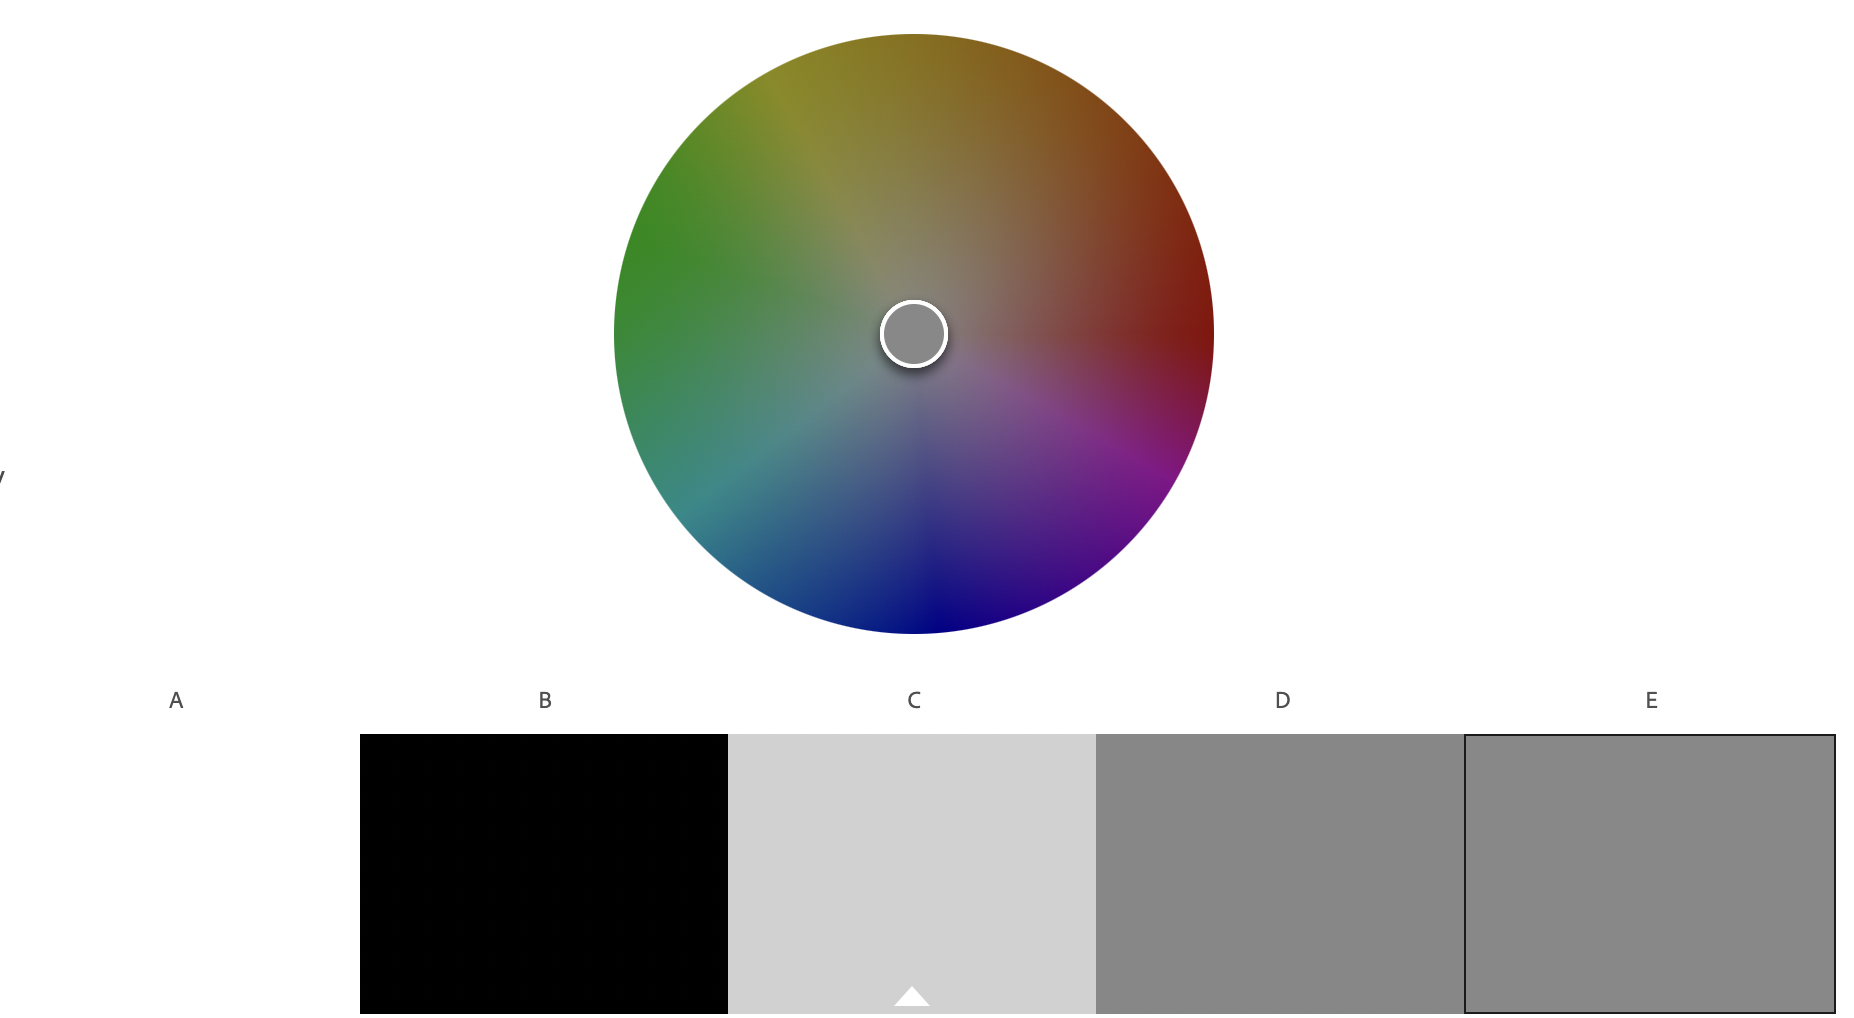
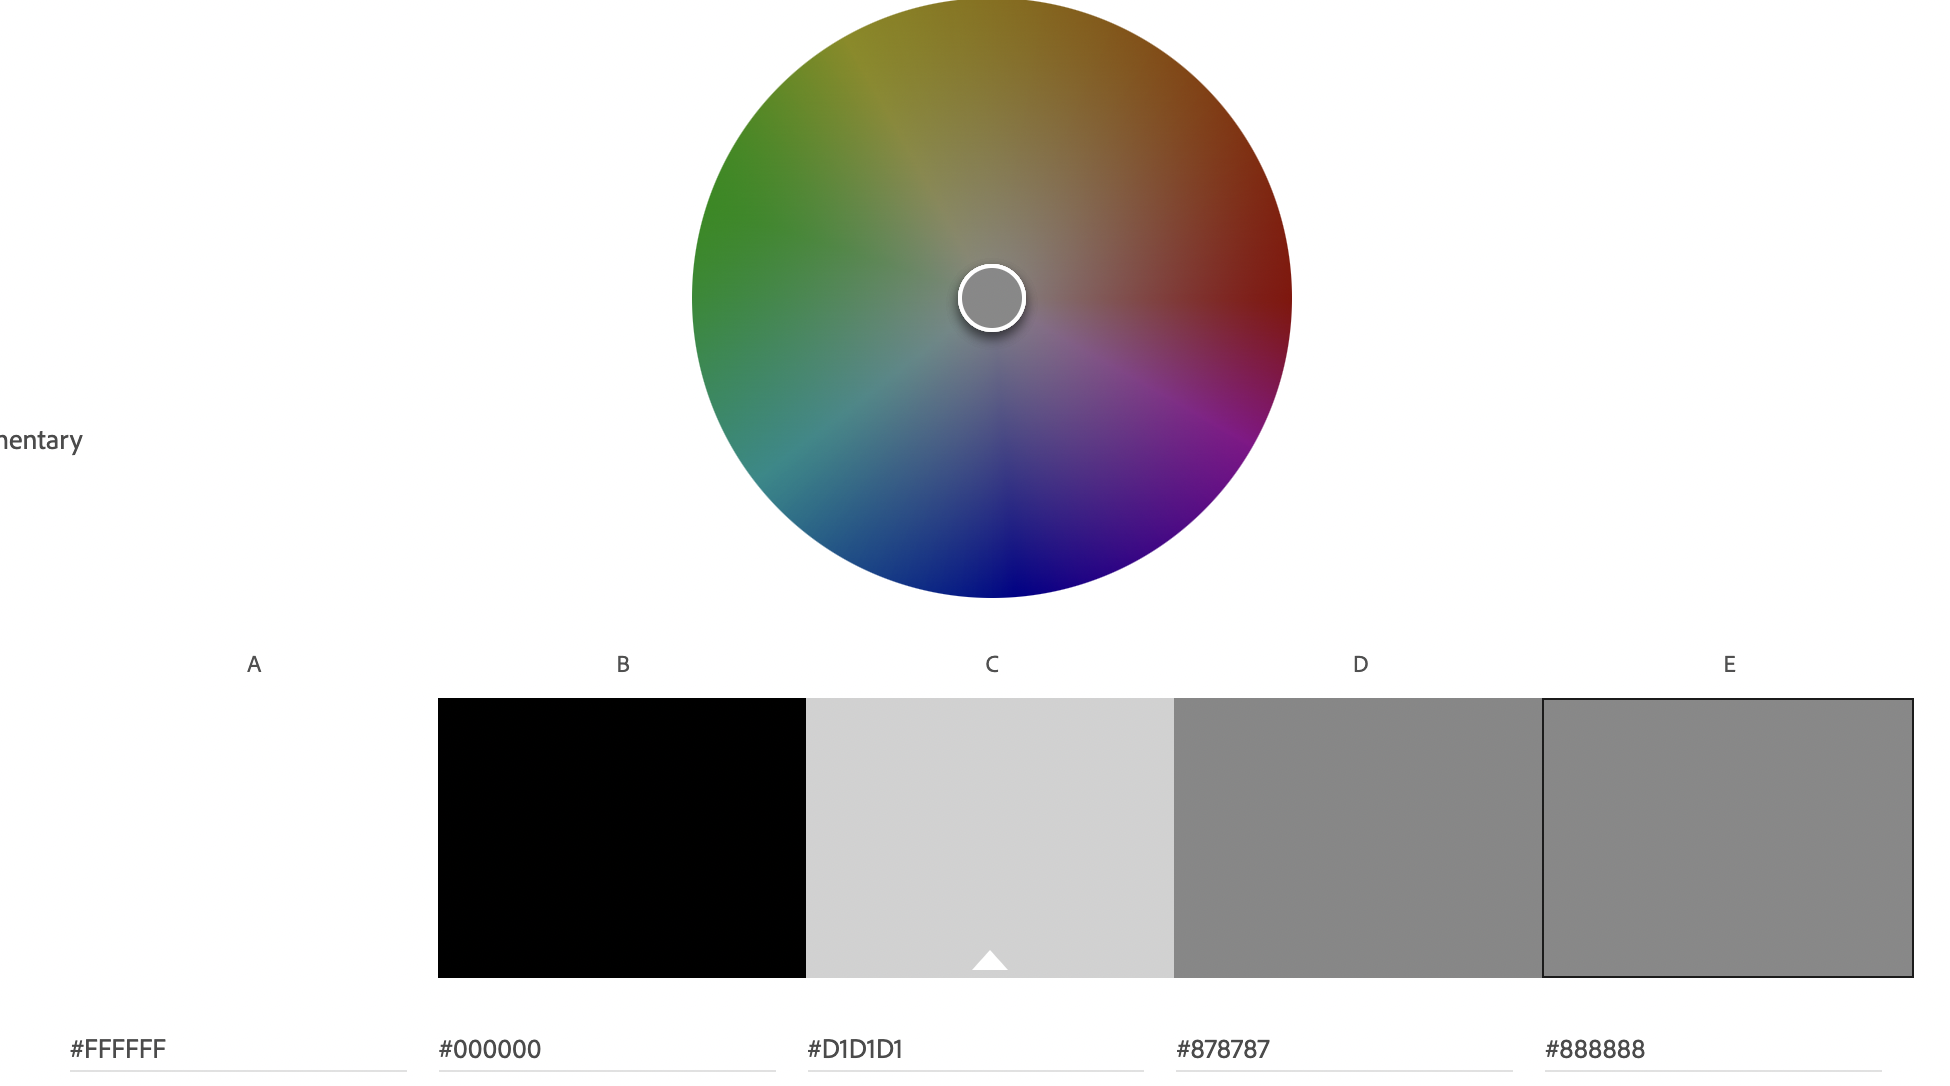
add colour scheme image to README.md file

Changed region(s): [[0.1845, 0.0, 1.0, 1.0], [0.0307, 0.944, 0.0922, 0.9745], [0.0, 0.3959, 0.0615, 0.4263]]

diff --git a/README.md b/README.md
@@ -98,6 +98,8 @@ The website was designed to look modern and stylish while keeping the site simpl
 ### Colour
 The monochromatic colour scheme of black, white and different shades of grey was chosen to give a modern look to the webpage. The darker colouring also allows the images of the companies installed work really stand out. When choosing the site colours I used Adobe Color to confirm the contrast between the colours was right.
 
+![colour scheme image](docs/design/colour-pallette.png)
+
 ### Fonts
 The heading font chosen for throughout the site is anek telugu from Google Fonts, the reasons I chose this font is because it is very clear and easy to read. The chosen font also has a stylish modern look which links in with the design of the webpage. As a back up I chose sans-serif if the anek telugu is unavailable.
 
